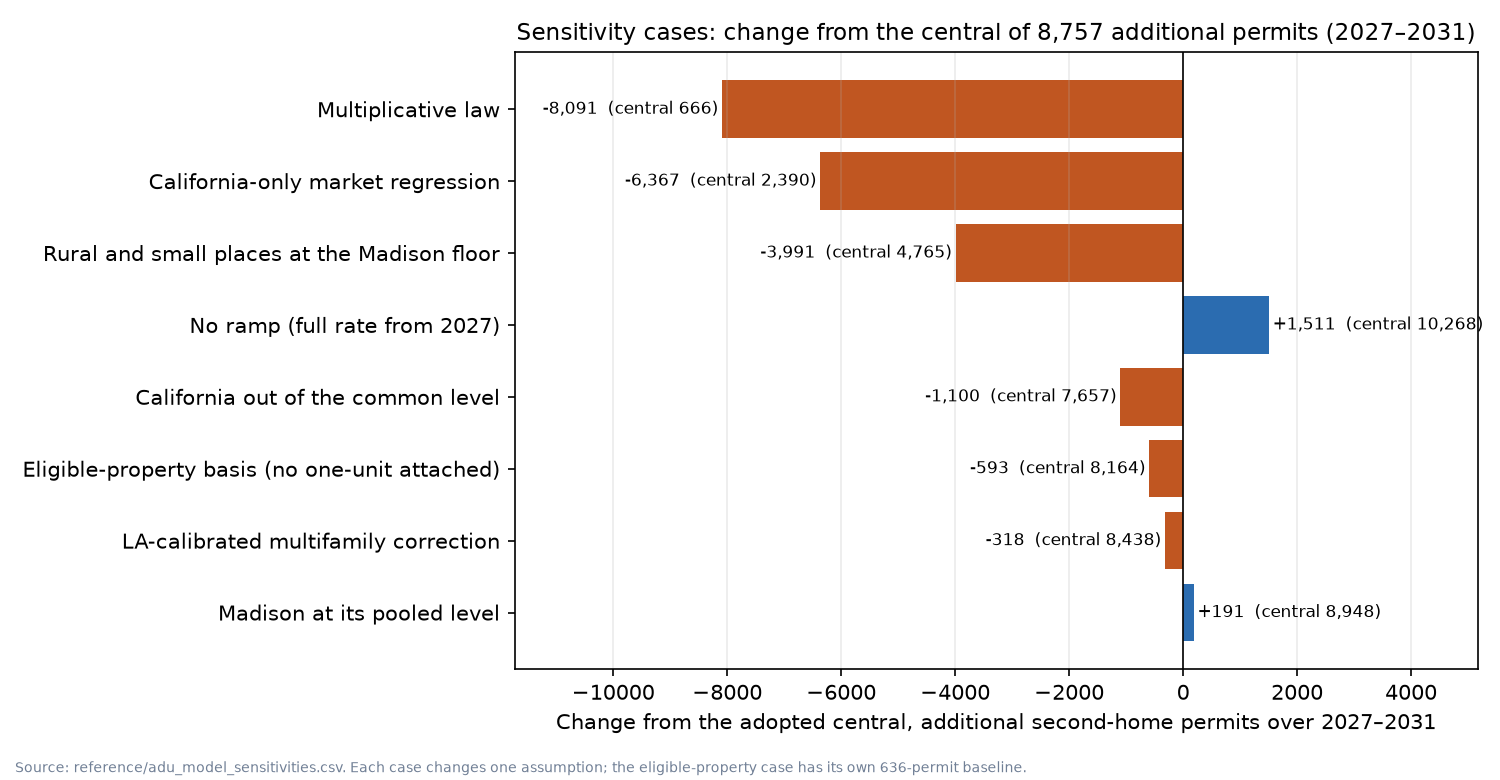
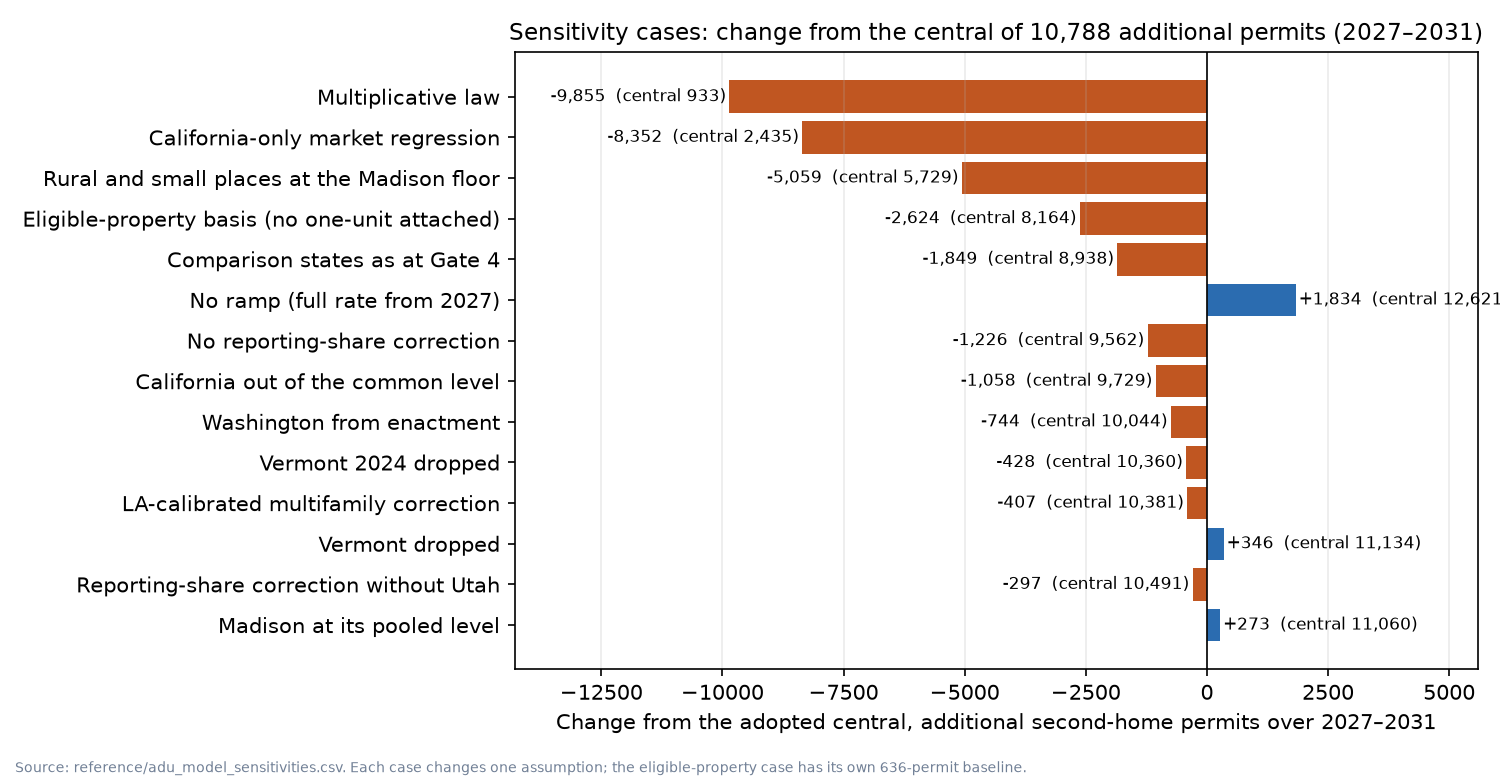
ADU: Vermont-dropped sensitivity (AQ-062); refit reference line for Vermont-2024 case; rebuild bundles

diff --git a/scripts/run_adu_vermont_options.py b/scripts/run_adu_vermont_options.py
@@ -8,7 +8,8 @@ compliance as adopted:
   B  Vermont 2024 dropped (fit rows and reference-line point)
   C  Vermont dropped entirely (within-state stage, between-state common level, reference line, lower and upper spread)
 
-Writes only reference/adu_vermont_options.csv. The adopted files are read, never written: the per-option level,
+Writes only reference/adu_vermont_options.csv. scripts/run_adu_model.py reuses context(), temp_reference() and
+engine_option() for its "Vermont dropped" and "Vermont 2024 dropped" sensitivity rows (AQ-062). The adopted files are read, never written: the per-option level,
 stage-2 and reference-point files the run_adu_model.py functions read are written to a temporary folder and the
 module's REFERENCE / ROOT are pointed there for the duration of the run.
 Run: uv run python scripts/run_adu_vermont_options.py   (about 1 minute)
@@ -18,6 +19,7 @@ from __future__ import annotations
 import shutil
 import sys
 import tempfile
+from contextlib import contextmanager
 from pathlib import Path
 
 import numpy as np
@@ -68,54 +70,75 @@ def ref_points(p, pan):
     return pd.concat([pts, ca], ignore_index=True).round(4)
 
 
-def main():
+def context():
+    """Inputs every option shares (loaded once)."""
     d = rp.load()
-    wi, growth = d["wi"], d["growth"]
-    areas = pd.read_parquet(PROCESSED / "model_baseline/engine_areas.parquet")
-    G = rv.growth_matrix(wi, growth)
-    pan = rv.ca_panels(d["panel"])[OPT]
     mlp = pd.read_csv(REFERENCE / "madison_like_median_path.csv")
     rv.MADISON_LIKE_PATH = mlp[mlp["group"].eq("WA+OR Madison-like (main)")].sort_values("year_since_law")["median_rate"].to_numpy()
-    apaths = area_paths(ram.PARAMS)
-    adopted_pts = pd.read_csv(REFERENCE / "pooled_revision_reference_points.csv")
+    return dict(d=d, wi=d["wi"], growth=d["growth"], G=rv.growth_matrix(d["wi"], d["growth"]),
+                pan=rv.ca_panels(d["panel"])[OPT], apaths=area_paths(ram.PARAMS),
+                areas=pd.read_parquet(PROCESSED / "model_baseline/engine_areas.parquet"))
 
+
+@contextmanager
+def temp_reference():
+    """Point run_adu_model's REFERENCE / ROOT at a temporary folder holding one option's level files."""
     tmp = Path(tempfile.mkdtemp(prefix="vt_options_"))
     (tmp / "reference").mkdir()
     shutil.copy(REFERENCE / "pooled_revision_adoption_line.csv", tmp / "reference")
     ram_ref, ram_root = ram.REFERENCE, ram.ROOT
-    rows, err_rows = [], []
     try:
         ram.REFERENCE, ram.ROOT = tmp / "reference", tmp
-        for opt, label in OPTIONS.items():
-            p = pooled_for(opt, d, pan)
-            r, _, f, Y = rv.wi_results(p, CFG_A, d, G, rv.FLOOR_NEW, pan, set(), sens=False)
-            lv = rv.level_frame(opt, CFG_A, wi, Y, r["factor80"], p)
-            lawc = f.beta[f.within_names.index("law")]
-            st2 = pd.DataFrame([dict(option=opt, config=CFG_A, cluster=c, level_with_law_k4=float(np.exp(a + lawc)))
-                                for c, a in f.alpha.items()])
-            lv.to_csv(tmp / "reference/pooled_revision_wi_y_by_area.csv", index=False)
-            st2.to_csv(tmp / "reference/pooled_revision_stage2_levels.csv", index=False)
-            pd.DataFrame([{**r, "option": opt, "config": CFG_A}]).to_csv(tmp / "reference/pooled_revision_wi.csv", index=False)
-            pts = ref_points(p, pan)
-            if opt == "A_adopted":
-                chk = adopted_pts.merge(pts, on=["cluster", "k", "year"], how="outer", indicator=True)
-                if not (chk["_merge"].eq("both").all() and np.allclose(chk.rate_x, chk.rate_y, atol=1e-4)):
-                    raise SystemExit("option A reference points do not reproduce pooled_revision_reference_points.csv")
-            pts.to_csv(tmp / "reference/pooled_revision_reference_points.csv", index=False)
+        yield tmp / "reference"
+    finally:
+        ram.REFERENCE, ram.ROOT = ram_ref, ram_root
+        shutil.rmtree(tmp, ignore_errors=True)
 
-            # engine step exactly as run_adu_model.main(): lower = RI/OR mean, pooled ramps per path, Madison path
-            fac_low = ram.bottom_states_factor(opt, CFG_A)
-            fac_up = float(r["factor80"])
-            ramps = {pth: {"ramp": ram.pooled_ramp(opt, CFG_A, fac, areas)}
-                     for pth, fac in (("lower", fac_low), ("central", 1.0), ("upper", fac_up))}
-            out = e.run(areas, ram.load_scenario(**ramps), growth, ram.load_area_levels(opt, CFG_A), apaths)
-            if e.check_invariants(out):
-                raise SystemExit(f"{opt}: engine invariant failures")
-            tot = ram.path_totals(out)
-            base5 = float(e.five_year_totals(out)["baseline_units"].iloc[0])
-            by_year = out.groupby(["path", "year"])[["baseline_units", "additional_units"]].sum().reset_index()
-            lines, lby = ram.reference_lines(by_year, float(areas["homes"].sum()))
-            l8 = lines[lines.line_id.eq("8_state_median")].iloc[0]
+
+def engine_option(opt, ctx, ref_dir, check_points=None):
+    """Fit one option and run the adopted engine step on it (as run_adu_model.main(): lower = RI/OR mean, pooled
+    ramps per path, Madison path, 8-state reference line). ref_dir is the folder temp_reference() yields.
+    Returns the fit pieces and the engine totals; used here and by scripts/run_adu_model.py (named sensitivities)."""
+    d, wi, areas = ctx["d"], ctx["wi"], ctx["areas"]
+    p = pooled_for(opt, d, ctx["pan"])
+    r, _, f, Y = rv.wi_results(p, CFG_A, d, ctx["G"], rv.FLOOR_NEW, ctx["pan"], set(), sens=False)
+    lv = rv.level_frame(opt, CFG_A, wi, Y, r["factor80"], p)
+    lawc = f.beta[f.within_names.index("law")]
+    st2 = pd.DataFrame([dict(option=opt, config=CFG_A, cluster=c, level_with_law_k4=float(np.exp(a + lawc)))
+                        for c, a in f.alpha.items()])
+    lv.to_csv(ref_dir / "pooled_revision_wi_y_by_area.csv", index=False)
+    st2.to_csv(ref_dir / "pooled_revision_stage2_levels.csv", index=False)
+    pd.DataFrame([{**r, "option": opt, "config": CFG_A}]).to_csv(ref_dir / "pooled_revision_wi.csv", index=False)
+    pts = ref_points(p, ctx["pan"])
+    if check_points is not None:
+        chk = check_points.merge(pts, on=["cluster", "k", "year"], how="outer", indicator=True)
+        if not (chk["_merge"].eq("both").all() and np.allclose(chk.rate_x, chk.rate_y, atol=1e-4)):
+            raise SystemExit(f"{opt}: reference points do not reproduce pooled_revision_reference_points.csv")
+    pts.to_csv(ref_dir / "pooled_revision_reference_points.csv", index=False)
+
+    fac_low = ram.bottom_states_factor(opt, CFG_A)
+    fac_up = float(r["factor80"])
+    ramps = {pth: {"ramp": ram.pooled_ramp(opt, CFG_A, fac, areas)}
+             for pth, fac in (("lower", fac_low), ("central", 1.0), ("upper", fac_up))}
+    out = e.run(areas, ram.load_scenario(**ramps), ctx["growth"], ram.load_area_levels(opt, CFG_A), ctx["apaths"])
+    if e.check_invariants(out):
+        raise SystemExit(f"{opt}: engine invariant failures")
+    by_year = out.groupby(["path", "year"])[["baseline_units", "additional_units"]].sum().reset_index()
+    lines, _ = ram.reference_lines(by_year, float(areas["homes"].sum()))
+    return dict(p=p, r=r, f=f, fac_low=fac_low, fac_up=fac_up, totals=ram.path_totals(out),
+                baseline_5yr=float(e.five_year_totals(out)["baseline_units"].iloc[0]),
+                ref_line=lines[lines.line_id.eq("8_state_median")].iloc[0])
+
+
+def main():
+    ctx = context()
+    adopted_pts = pd.read_csv(REFERENCE / "pooled_revision_reference_points.csv")
+    rows, err_rows = [], []
+    with temp_reference() as ref_dir:
+        for opt, label in OPTIONS.items():
+            o = engine_option(opt, ctx, ref_dir, adopted_pts if opt == "A_adopted" else None)
+            p, r, f, fac_low, fac_up = o["p"], o["r"], o["f"], o["fac_low"], o["fac_up"]
+            tot, base5, l8 = o["totals"], o["baseline_5yr"], o["ref_line"]
 
             # held-out errors: configuration A (California in the common level) and B (out)
             states = tuple(s for s in STATES if s in set(p.rows["cluster"]))
@@ -139,9 +162,6 @@ def main():
                 **{f"log_error_ca_in_{s}": float(la.loc[s, "log_error"]) if s in la.index else np.nan for s in STATES},
                 **{f"log_error_ca_out_{s}": float(lb.loc[s, "log_error"]) if s in lb.index else np.nan for s in STATES}))
             print(opt, {k: round(v, 4) if isinstance(v, float) else v for k, v in rows[-1].items()})
-    finally:
-        ram.REFERENCE, ram.ROOT = ram_ref, ram_root
-        shutil.rmtree(tmp, ignore_errors=True)
 
     res = pd.DataFrame(rows)
     # check: option A reproduces the adopted outputs

diff --git a/scripts/run_adu_model.py b/scripts/run_adu_model.py
@@ -322,6 +322,20 @@ def main():
         t, _ = run_t(sc=load_scenario(**rr), lv=load_area_levels(opt, cfg))
         add(lab, "statewide addition", what + " The lower is the same Rhode Island and Oregon average, taken from this fit.",
             "engine", "path", t, f"reference/pooled_revision_wi_y_by_area.csv ({opt} x {cfg})")
+    # AQ-062 Vermont options (scripts/run_adu_vermont_options.py, docs/adu/VERMONT_OPTIONS.md): refit with Vermont 2024
+    # dropped (B) and with Vermont dropped entirely (C), each through the adopted engine step including the 8-state
+    # reference line. B's totals must match the cap_a2|vt_2024_dropped row below (built from run_pooled_revision.py).
+    import sys
+    sys.path.insert(0, str(ROOT / "scripts"))
+    import run_adu_vermont_options as vto
+    vctx = vto.context()
+    vt = {}
+    with vto.temp_reference() as ref_dir:
+        for opt in ("B_drop_vt_2024", "C_drop_vt"):
+            o = vto.engine_option(opt, vctx, ref_dir)
+            vt[opt] = {**o["totals"], "ref_line": float(o["ref_line"].additional_5yr), "baseline": o["baseline_5yr"]}
+    ref_line_adopted = float(reference_lines(by_year, float(areas["homes"].sum()))[0]
+                             .query("line_id == '8_state_median'").additional_5yr.iloc[0])
     # AQ-061 measurement and coding choices, each switched back alone (and all together), refitted
     for opt, lab, what in (
             ("cap_a2|no_coverage", "no reporting-share correction (counts divided by every home in the state)",
@@ -339,7 +353,9 @@ def main():
             ("cap_a2|vt_2024_dropped", "Vermont 2024 dropped (57 ADUs from the state housing layer, counted by year built)",
              "Vermont's 2024 count comes from the state's new-housing layer, not the regional planning commission's own "
              "series (which ends at 2023), and every Vermont count is by year built or first occupied, not permit year. "
-             "Owner to decide (AQ-061). The reference line is not refitted here."),
+             "Not adopted (AQ-062): it makes Vermont's own held-out miss worse. "
+             f"Refitted without that point, the 8-state reference line is {vt['B_drop_vt_2024']['ref_line']:,.0f} "
+             f"permits (adopted {ref_line_adopted:,.0f})."),
             ("cap_a2|gate4_coding", "all three AQ-061 comparison-state changes undone (no coverage correction, Washington "
              "from enactment; Massachusetts still 11 months)",
              "The comparison-state counts and coding as at Gate 4, on today's current-law rates.")):
@@ -348,6 +364,21 @@ def main():
         t, _ = run_t(sc=load_scenario(**rr), lv=load_area_levels(opt, cfg0))
         add(lab, "statewide addition", what + " The lower is the Rhode Island and Oregon average from this fit.",
             "engine", "path", t, f"reference/pooled_revision_wi_y_by_area.csv ({opt} x {cfg0})")
+    b_row = next(x for x in sens if x["change"].startswith("Vermont 2024 dropped"))
+    for pth in ("lower", "central", "upper"):
+        if abs(b_row[f"{pth}_additional_5yr"] - vt["B_drop_vt_2024"][pth]) > 0.5:
+            raise SystemExit(f"Vermont 2024 dropped {pth}: options refit {vt['B_drop_vt_2024'][pth]:.1f} != "
+                             f"pooled revision row {b_row[f'{pth}_additional_5yr']:.1f}")
+    c = vt["C_drop_vt"]
+    if abs(c["baseline"] - base5) > 0.05:
+        raise SystemExit(f"Vermont dropped: baseline {c['baseline']:.1f} != adopted {base5:.1f}")
+    add("Vermont dropped (left out of the comparison states)", "statewide addition",
+        "Vermont is left out of the comparison states, because its counts are by year built or first occupied, not "
+        "permit year. It is out of the typical level, the lower and upper spread and the reference line; seven states "
+        "remain, California included. Not adopted (AQ-062): the other six states are predicted less well without it. "
+        f"The 8-state reference line becomes a 7-state line of {c['ref_line']:,.0f} permits (adopted "
+        f"{ref_line_adopted:,.0f}). The lower is the Rhode Island and Oregon average from this fit.",
+        "engine", "path", c, "scripts/run_adu_vermont_options.py engine_option(C_drop_vt) (docs/adu/VERMONT_OPTIONS.md)")
     t, _ = run_t(lv=load_area_levels("cap_a2|no_value_cap", cfg0))
     add("no top-code on the value gap (small high-value villages keep their extrapolated levels)",
         "local distribution only",
@@ -403,8 +434,6 @@ def main():
 
     # baseline-only cases (scripts/run_baseline_only_effects.py builds the same cases and checks each baseline
     # against reference/wi_baseline_sensitivities.csv)
-    import sys
-    sys.path.insert(0, str(ROOT / "scripts"))
     from run_baseline_only_effects import CASE_TEXT, baseline_only_cases
     for cid, label, a, g, _chk in baseline_only_cases(areas, growth):
         t, b = run_t(a=a, g=g)

diff --git a/tests/test_model_engine.py b/tests/test_model_engine.py
@@ -232,6 +232,22 @@ class TestAdoptedOutputs(unittest.TestCase):
         pw = pw[pw.case.eq("rising baseline, proportional, C median ratio") & pw.path.eq("central")].iloc[0]
         self.assertAlmostEqual(pw.additional_5yr, r.central_additional_5yr, delta=0.06)
 
+    def test_vermont_dropped_case(self):
+        # AQ-062: Vermont kept in the adopted model; "Vermont dropped" is a named sensitivity, generated by
+        # scripts/run_adu_model.py from scripts/run_adu_vermont_options.py (option C), and matching its table
+        s = pd.read_csv(self.ref / "adu_model_sensitivities.csv")
+        r = s[s.change.str.startswith("Vermont dropped")]
+        self.assertEqual(len(r), 1)
+        r = r.iloc[0]
+        self.assertEqual(r.moves, "statewide addition")
+        self.assertIn("11,497", r.description)
+        vt = pd.read_csv(self.ref / "adu_vermont_options.csv").set_index("option")
+        for opt, row in (("C_drop_vt", r), ("B_drop_vt_2024", s[s.change.str.startswith("Vermont 2024 dropped")].iloc[0])):
+            for p in ("lower", "central", "upper"):
+                self.assertAlmostEqual(row[f"{p}_additional_5yr"], vt.loc[opt, f"{p}_additional_5yr"], delta=0.06)
+        self.assertAlmostEqual(vt.loc["C_drop_vt", "reference_line_additional_5yr"], 11497, delta=0.5)
+        self.assertEqual((r.lower_additional_5yr, r.central_additional_5yr, r.upper_additional_5yr), (6659.4, 11133.5, 21513.5))
+
     def test_reference_line_8_states_carried_forward(self):
         lines = pd.read_csv(self.ref / "adu_model_reference_lines.csv")
         self.assertEqual(lines.adopted.sum(), 1)

diff --git a/scripts/build_ui_bundle.py b/scripts/build_ui_bundle.py
@@ -770,6 +770,7 @@ def build_uncertainty(areas: list) -> dict:
              ("reporting-share correction for Maine", "Scale up for non-reporting towns in Maine, Massachusetts, Rhode Island only"),
              ("Washington's law years", "Count Washington's law years from enactment, not local compliance"),
              ("Vermont 2024 dropped", "Leave out Vermont's 2024 count (changed source)"),
+             ("Vermont dropped", "Leave Vermont out of the comparison states"),
              ("all three AQ-061", "Comparison-state counts and coding as at Gate 4"),
              ("no top-code", "Let small high-value villages keep their extrapolated rates")]
     cases = []

diff --git a/scripts/plot_sensitivity_tornado.py b/scripts/plot_sensitivity_tornado.py
@@ -25,6 +25,12 @@ SHORT = {   # csv `change` prefix -> short bar label
     "eligible-property basis": "Eligible-property basis (no one-unit attached)",
     "multiplicative": "Multiplicative law",
     "California-only market regression": "California-only market regression",
+    "no reporting-share correction": "No reporting-share correction",
+    "reporting-share correction for Maine": "Reporting-share correction without Utah",
+    "Washington's law years": "Washington from enactment",
+    "Vermont 2024 dropped": "Vermont 2024 dropped",
+    "Vermont dropped": "Vermont dropped",
+    "all three AQ-061": "Comparison states as at Gate 4",
 }
 
 

diff --git a/docs/MODEL_AND_ASSUMPTIONS.md b/docs/MODEL_AND_ASSUMPTIONS.md
@@ -203,10 +203,11 @@ Each case changes one assumption and reruns the model. Additional permits over 2
 | No scale-up for towns that did not report | 6,119 | 9,562 | 18,114 |
 | California out of the common level | 6,735 | 9,729 | 15,924 |
 | Washington's law years from enactment, not local compliance | 6,138 | 10,044 | 18,801 |
-| Vermont 2024 left out (owner to decide) | 6,590 | 10,360 | 19,882 |
+| Vermont 2024 left out (not adopted, AQ-062) | 6,590 | 10,360 | 19,882 |
 | Los Angeles-calibrated multifamily correction | 6,603 | 10,381 | 18,197 |
 | Scale-up for Maine, Massachusetts and Rhode Island only (Utah not) | 6,740 | 10,491 | 19,524 |
 | Madison at its pooled level instead of its path | 6,842 | 11,060 | 20,707 |
+| Vermont left out of the comparison states (counts by year built, not permit year; not adopted, AQ-062). Reference line 11,497 permits (adopted 10,558) | 6,659 | 11,133 | 21,514 |
 | No ramp: full rate from 2027 | — | 12,621 | — |
 
 **A case that moves only where permits land:** without the cap on the value gap, small very high-value villages keep their extrapolated levels. The statewide central barely moves (10,788 → 10,788.3); about 16 permits move back to the 8 capped areas.

diff --git a/docs/POLICY_SCENARIO_COMPARISON.md b/docs/POLICY_SCENARIO_COMPARISON.md
@@ -99,6 +99,7 @@ ADU figures were revised on 2026-10-28 (AQ-061 in the [assumptions log](ASSUMPTI
 | ADUs | Whether rural and small-town Wisconsin respond like the model says | At Madison's low minimum rate, the central falls from 10,788 to 5,729. |
 | ADUs | The phase-in | Without it, the central rises to 12,621. |
 | ADUs | How the comparison states' counts are read (AQ-061) | Without scaling up for towns that did not report, the central is 9,562; with Washington's law years counted from enactment, 10,044; with all three changes undone, 8,938. |
+| ADUs | Whether Vermont is a comparison state (its counts are by year built, not permit year; AQ-062) | Left out, the central rises from 10,788 to 11,133 and the upper from 20,057 to 21,514; kept in as adopted. |
 
 **Can one input flip the ranking?** Yes:
 - if parking's high end is taken as the expectation, parking passes the ADU central, with 19,937 homes;
